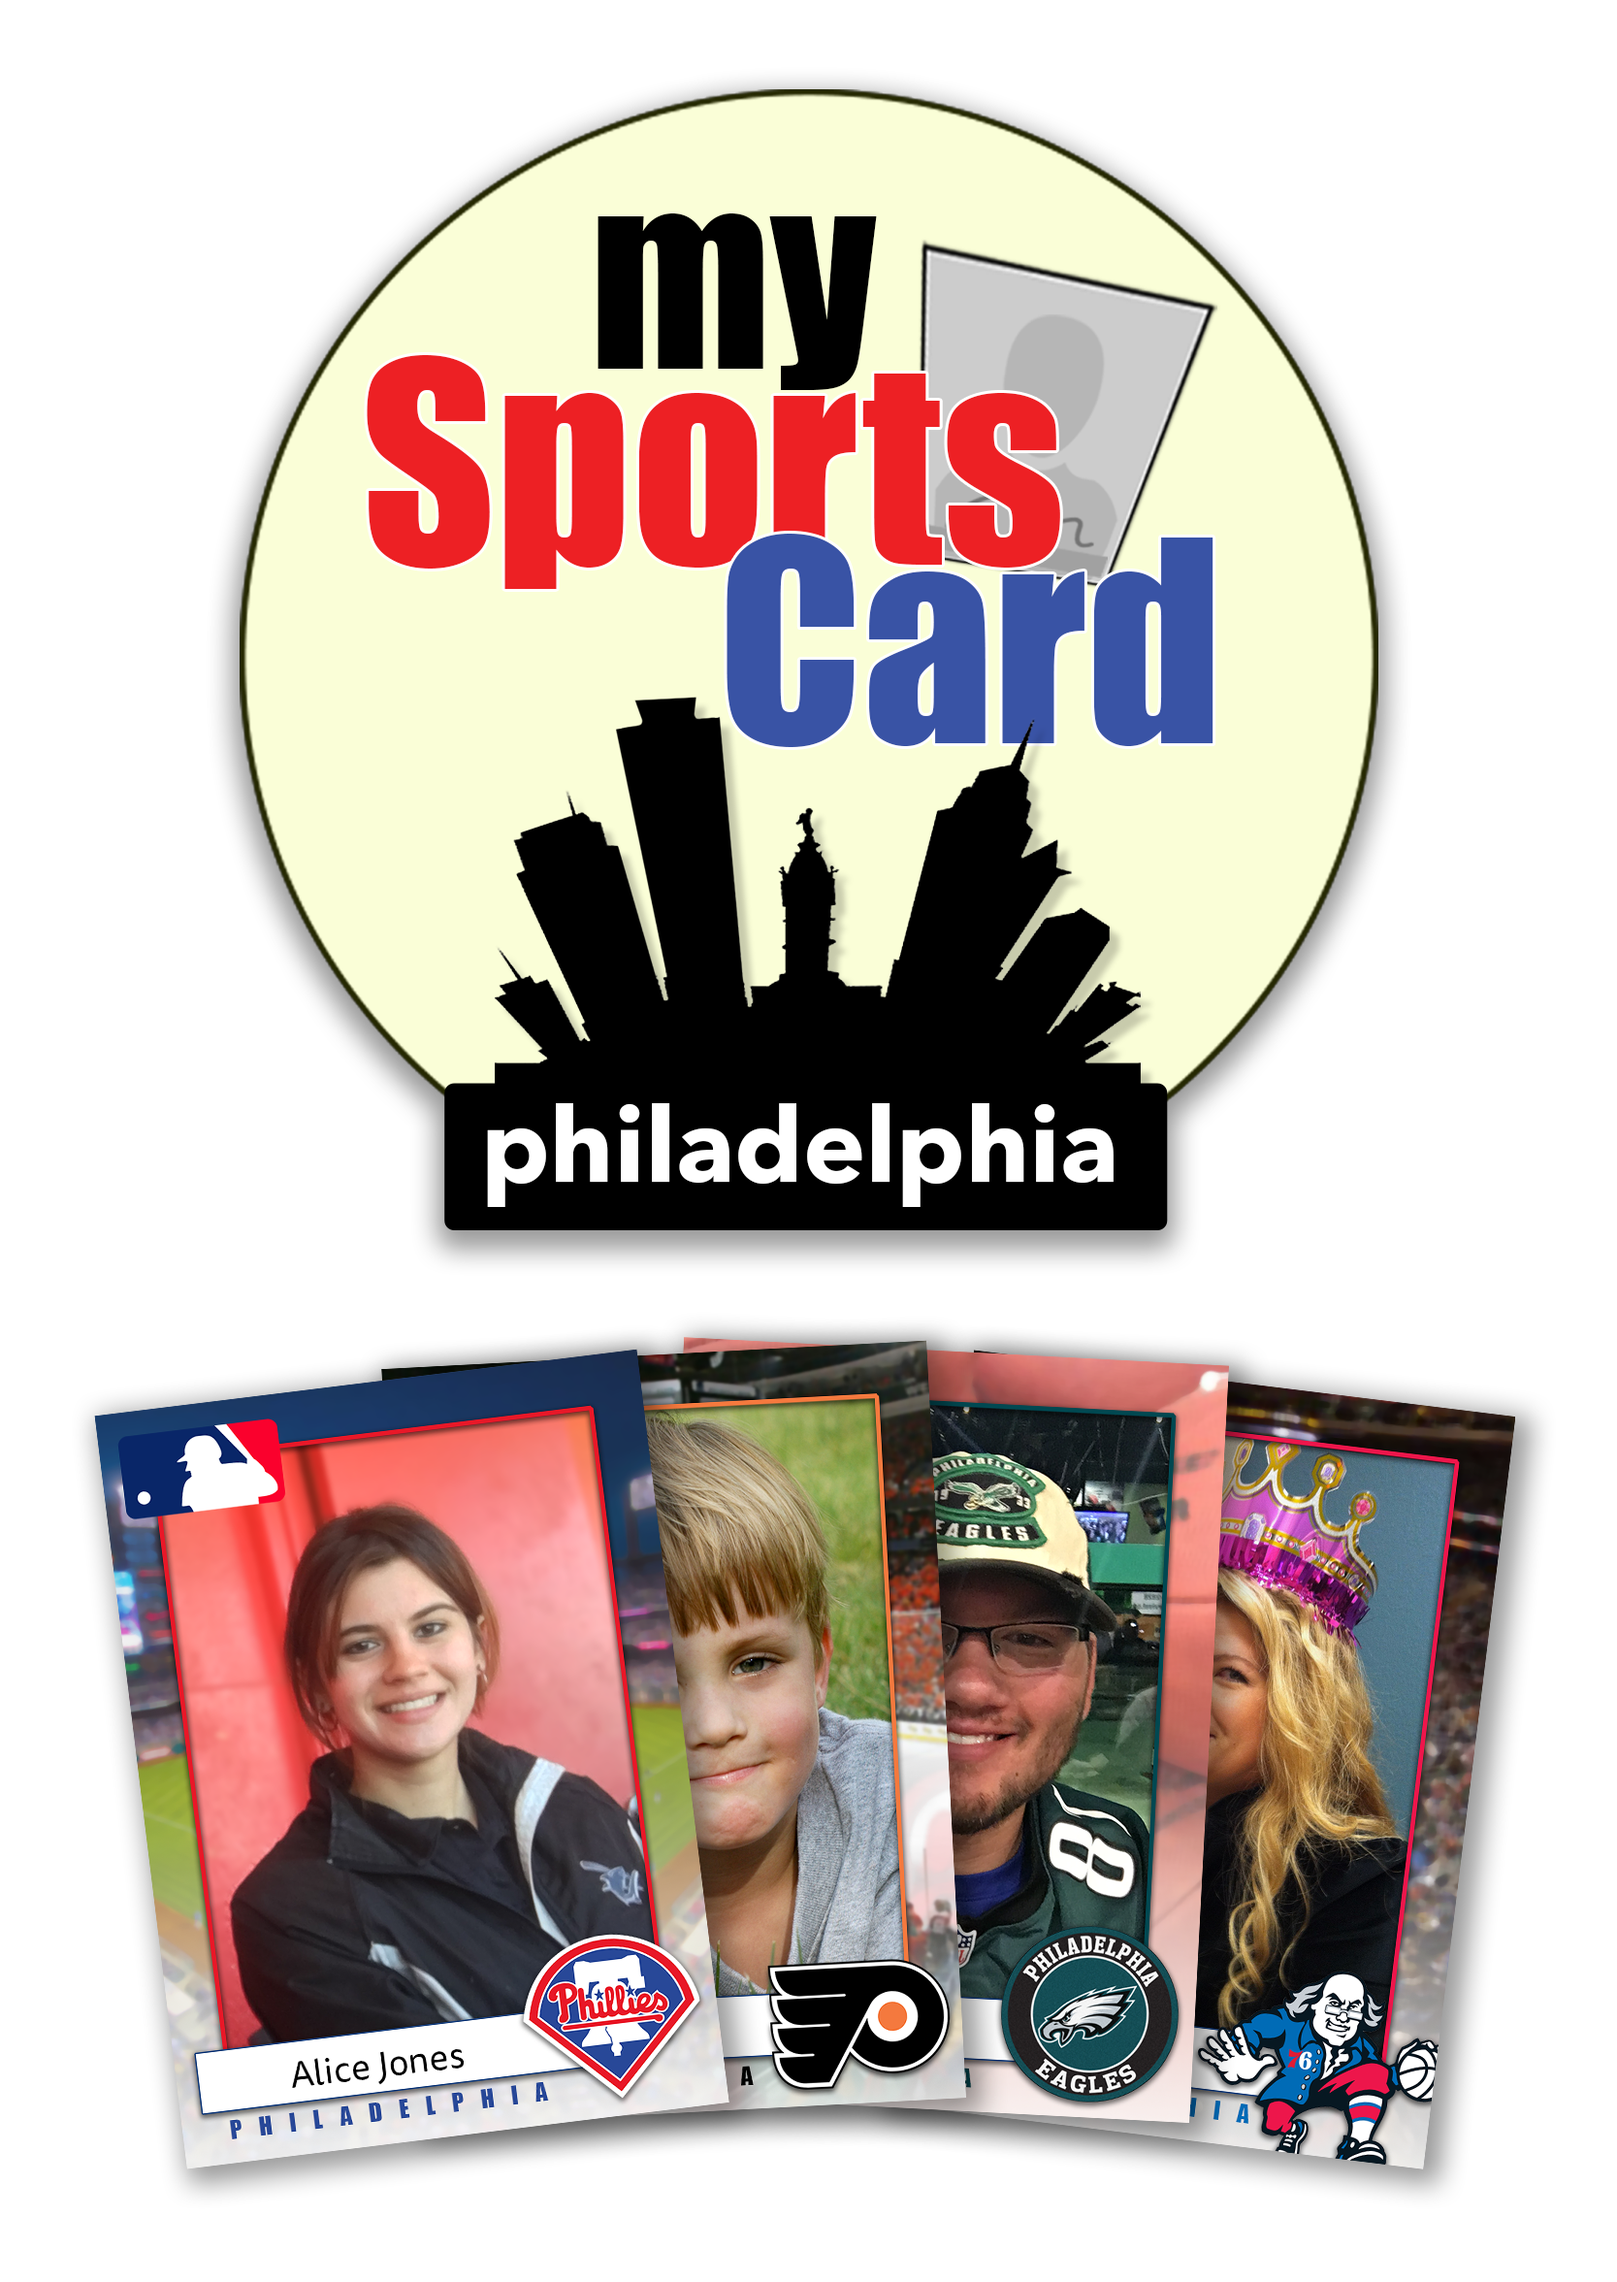
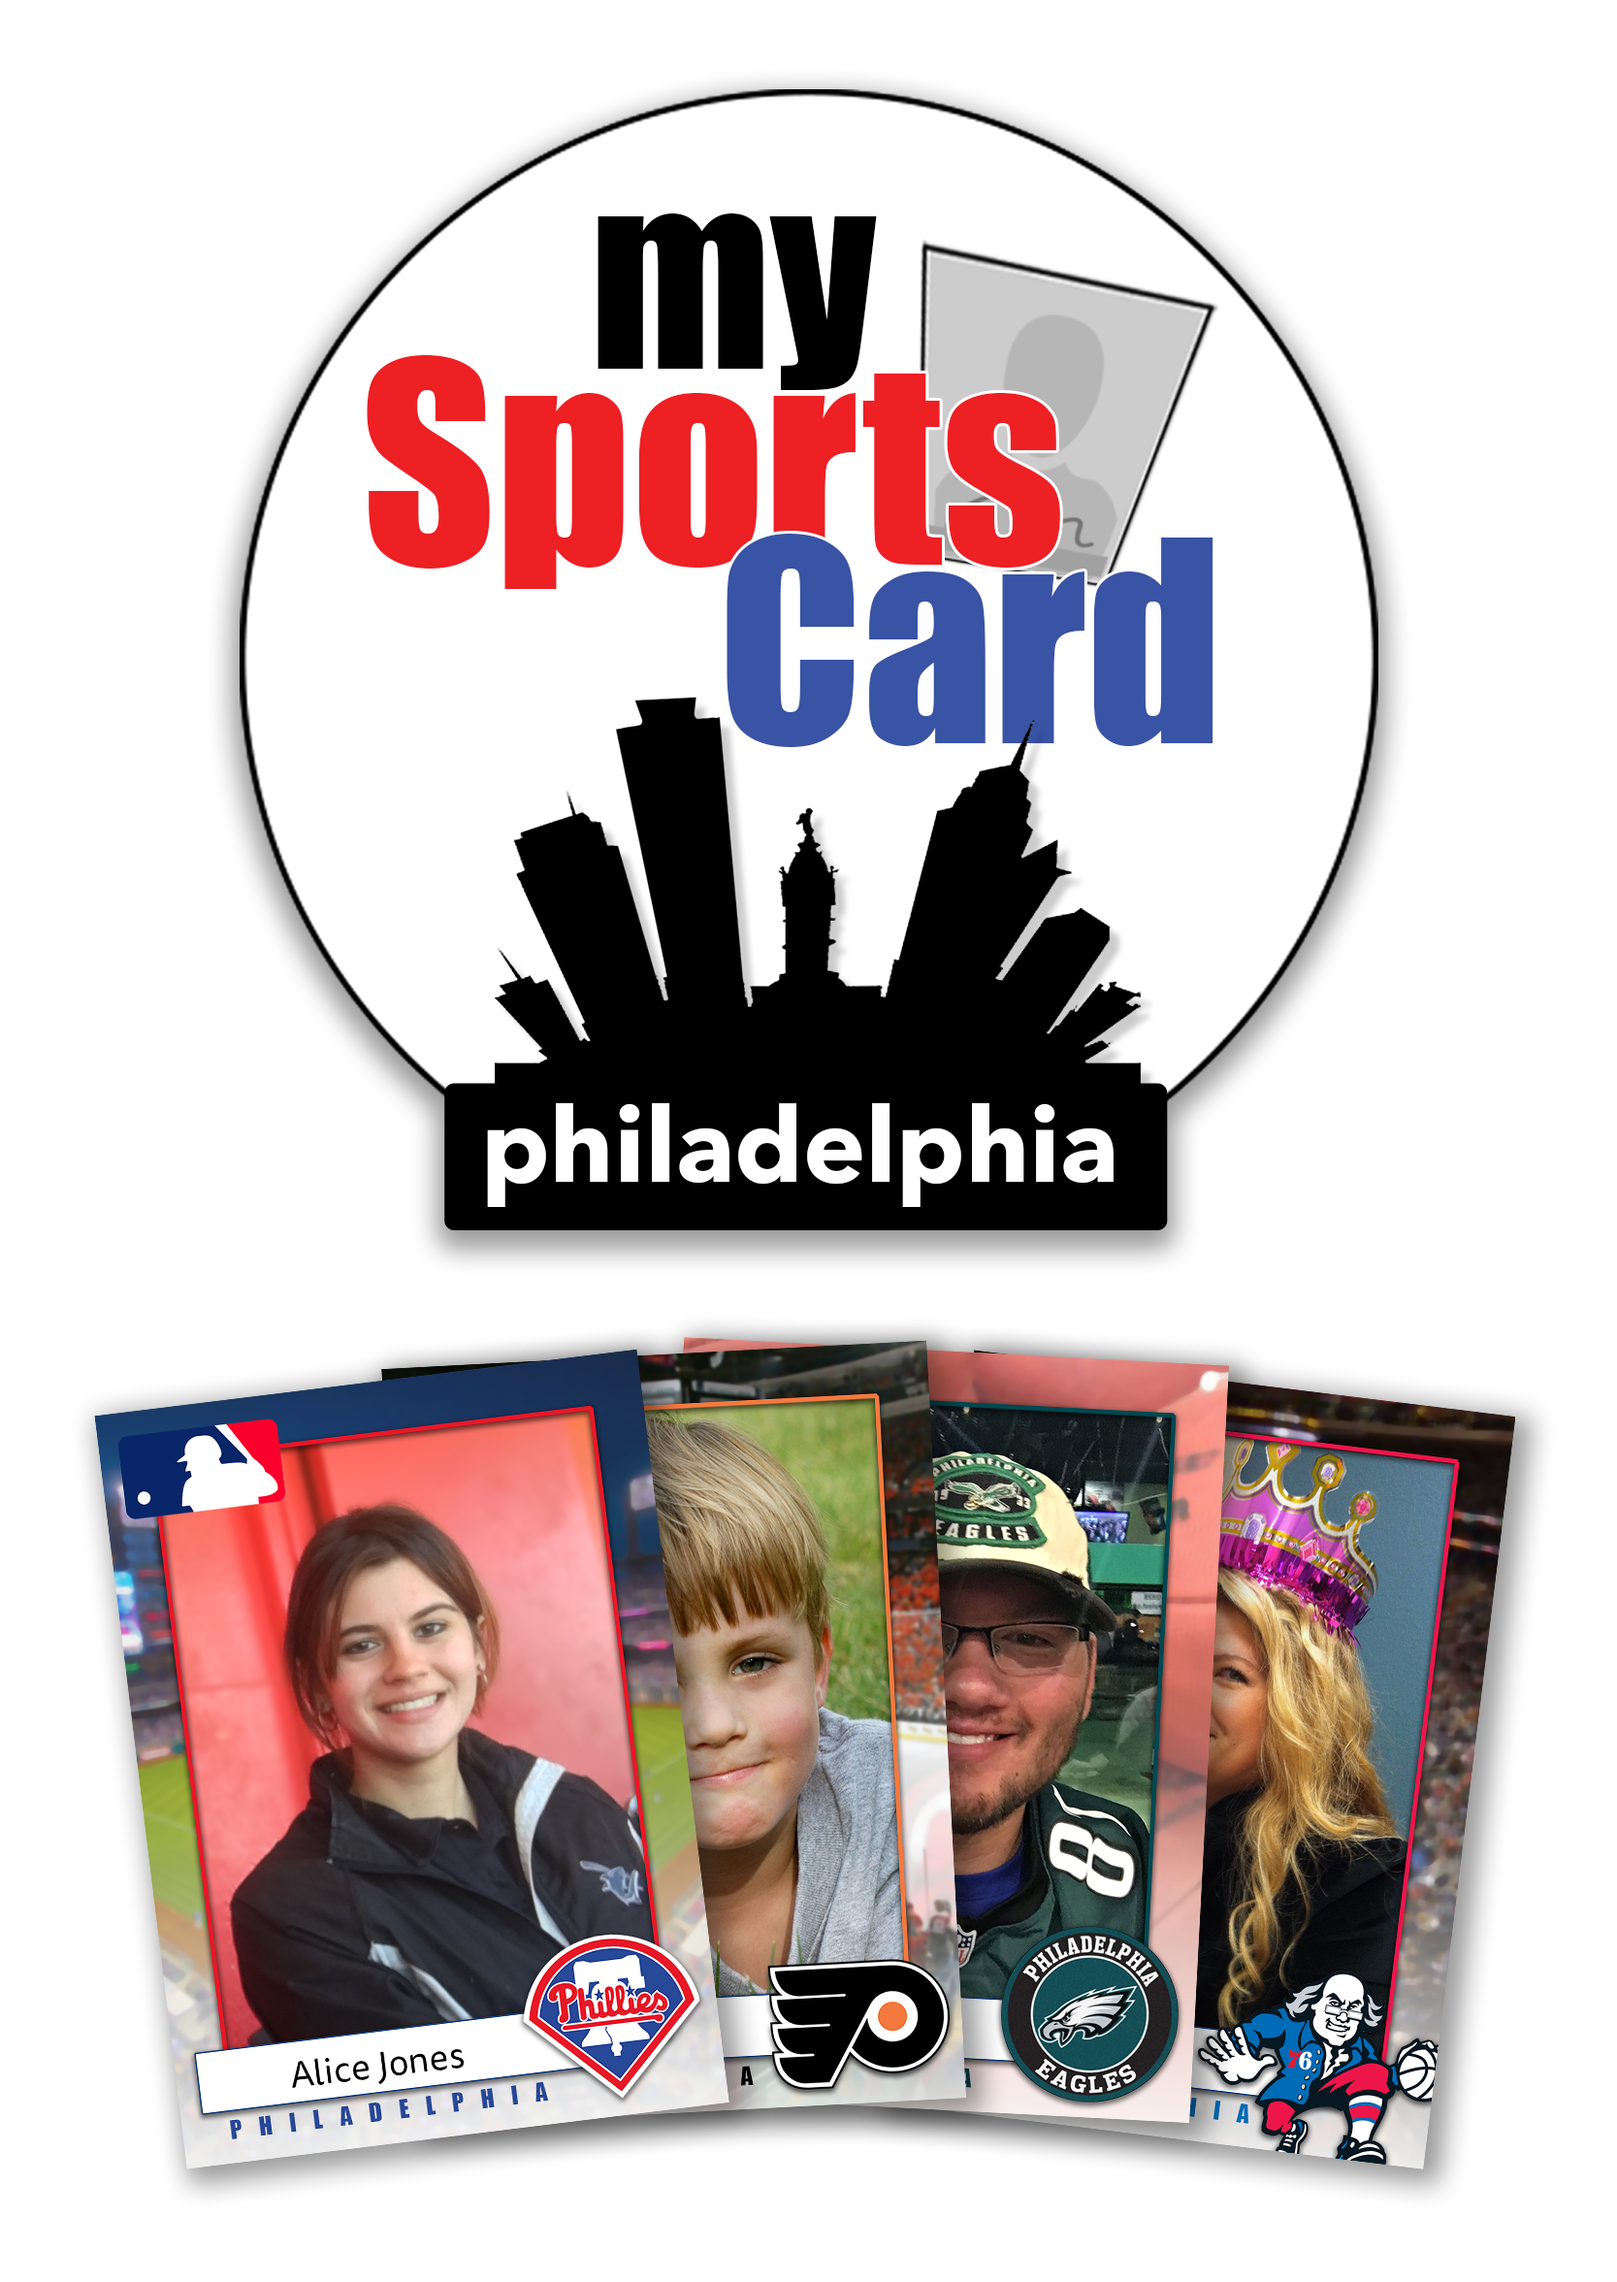
adjusted background images for size and removed color overlay

Changed region(s): [[0.1248, 0.031, 0.8734, 0.4966]]

diff --git a/app/assets/stylesheets/style.scss b/app/assets/stylesheets/style.scss
@@ -725,6 +725,7 @@ label {
     background-repeat: no-repeat;
     margin-bottom: -2em;
     margin-top: 1em;
+    transition: all 300ms ease;
   }
 
   .intro-text h3 {
@@ -751,12 +752,39 @@ label {
 
   .landing {
     background-position: center;
-    background-image: image-url("phillycards/tradingcard_philly_700px.png");
-    height: 525px;
+    background-image: image-url("phillycards/mysportscard800.png");
+    background-size: contain;
+    height: 500px;
     width: 800px;
     background-repeat: no-repeat;
     margin-bottom: -5em;
     margin-top: -.5em;
+    transition: 300ms ease;
+  }
+
+  .intro-text h3 {
+    text-align: center;
+    margin: 1em 7em;
+    color: black;
+    font-size: 18px;
+    line-height: 22px;
+  }
+}
+
+@media only screen and (min-width: 1100px) {
+  .wrapper {
+  }
+
+  .landing {
+    background-position: center;
+    background-image: image-url("phillycards/mysportscard1200.png");
+    background-size: contain;
+    height: 500px;
+    width: 1050px;
+    background-repeat: no-repeat;
+    margin-bottom: -5em;
+    margin-top: -.5em;
+    transition: 300ms ease;
   }
 
   .intro-text h3 {
